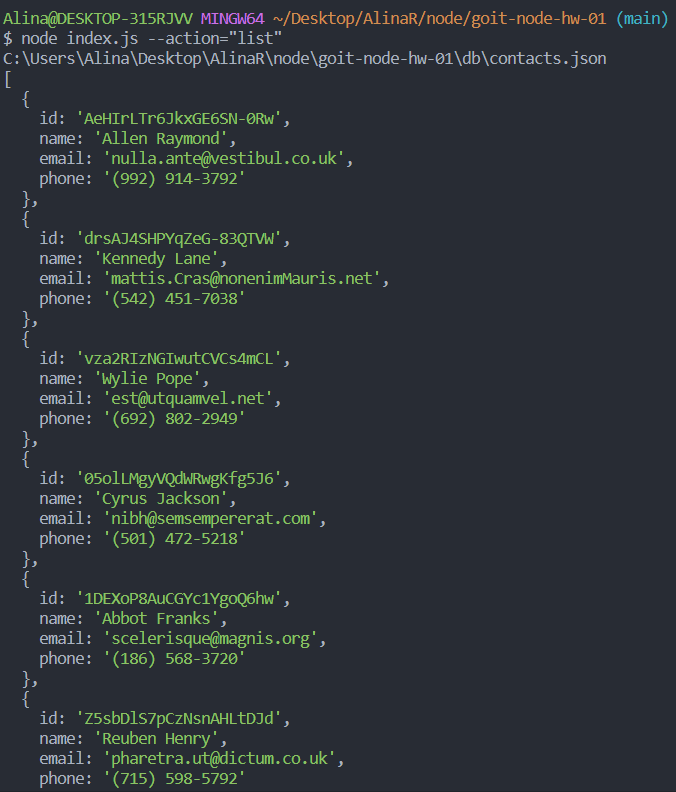
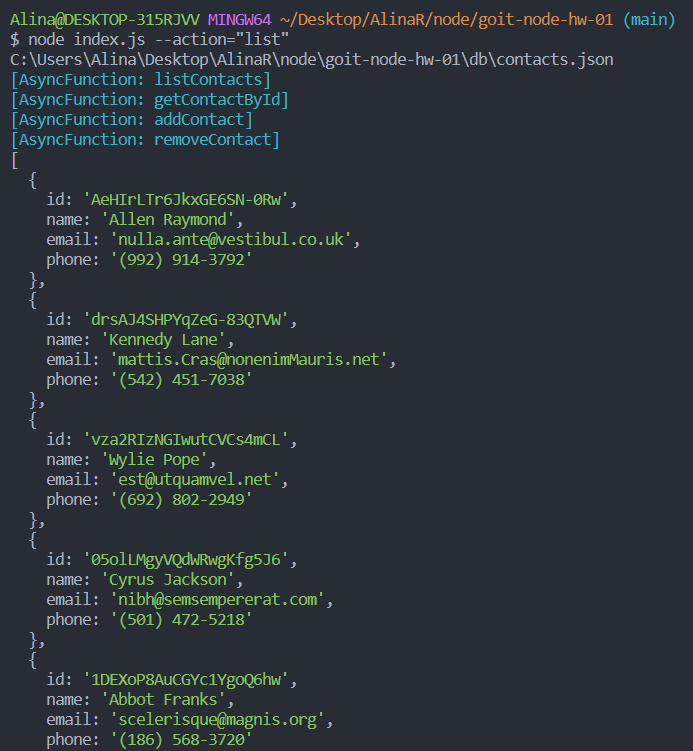
update

diff --git a/contacts.js b/contacts.js
@@ -1,75 +1,51 @@
-const fs = require("fs");
+const fs = require("fs/promises");
 const path = require("path");
+const { v4: uuidv4 } = require("uuid");
 
-const contactsPath = path.normalize(
-  path.join(__dirname, "db", "contacts.json")
-);
+const contactsPath = path.join(__dirname, "db", "contacts.json");
 console.log(contactsPath);
 
-function readFileAsync(filePath) {
-  return new Promise((resolve, reject) => {
-    fs.readFile(filePath, "utf8", (err, data) => {
-      if (err) {
-        reject(err);
-      } else {
-        resolve(data);
-      }
-    });
-  });
-}
+const listContacts = async () => {
+  const data = await fs.readFile(contactsPath);
+  return JSON.parse(data);
+};
+console.log(listContacts);
 
-function writeFileAsync(filePath, data) {
-  return new Promise((resolve, reject) => {
-    fs.writeFile(filePath, data, "utf8", (err) => {
-      if (err) {
-        reject(err);
-      } else {
-        resolve();
-      }
-    });
-  });
-}
-
-async function listContacts() {
-  return JSON.parse(await readFileAsync(contactsPath));
-}
-
-async function getContactById(contactId) {
+const getContactById = async (id) => {
   const contacts = await listContacts();
-  return contacts.find((contact) => contact.id === contactId) || null;
-}
+  return contacts.find((contact) => contact.id === id) || null;
+};
+console.log(getContactById);
 
-async function removeContact(contactId) {
+const addContact = async (name, email, phone) => {
   const contacts = await listContacts();
-  const removedContact = contacts.find((contact) => contact.id === contactId);
-
-  if (!removedContact) return null;
-
-  const updatedContacts = contacts.filter(
-    (contact) => contact.id !== contactId
-  );
-
-  try {
-    await writeFileAsync(
-      contactsPath,
-      JSON.stringify(updatedContacts, null, 2)
-    );
-    return removedContact;
-  } catch (error) {
-    throw error;
-  }
-}
-
-async function addContact(name, email, phone) {
-  const newContact = { id: Date.now(), name, email, phone };
-  const contacts = await listContacts();
+  const newContact = {
+    id: uuidv4(),
+    name,
+    email,
+    phone,
+  };
   contacts.push(newContact);
+  await fs.writeFile(contactsPath, JSON.stringify(contacts, null, 2));
+  return newContact;
+};
+console.log(addContact);
 
-  try {
-    await writeFileAsync(contactsPath, JSON.stringify(contacts, null, 2));
-    return newContact;
-  } catch (error) {
-    throw error;
+const removeContact = async (id) => {
+  const contacts = await listContacts();
+  const index = contacts.findIndex((contact) => contact.id === id);
+  if (index === -1) {
+    return null;
   }
-}
-module.exports = { listContacts, getContactById, removeContact, addContact };
+  const [result] = contacts.splice(index, 1);
+  await fs.writeFile(contactsPath, JSON.stringify(contacts, null, 2));
+  return result;
+};
+console.log(removeContact);
+
+module.exports = {
+  listContacts,
+  getContactById,
+  removeContact,
+  addContact,
+};

diff --git a/index.js b/index.js
@@ -1,4 +1,3 @@
-
 const contacts = require("./contacts");
 const { Command } = require("commander");
 
